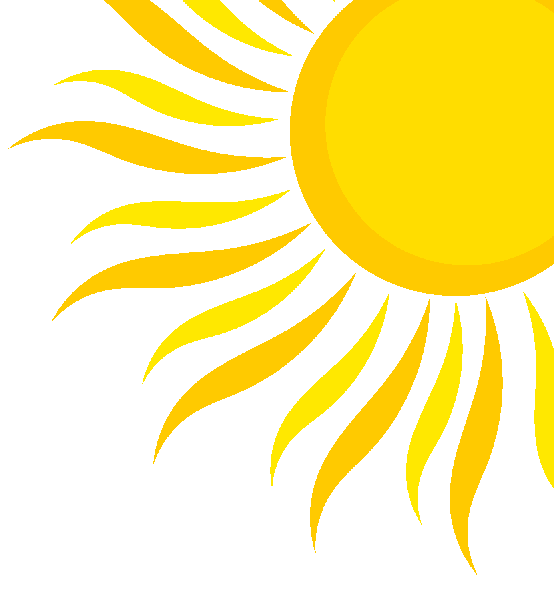
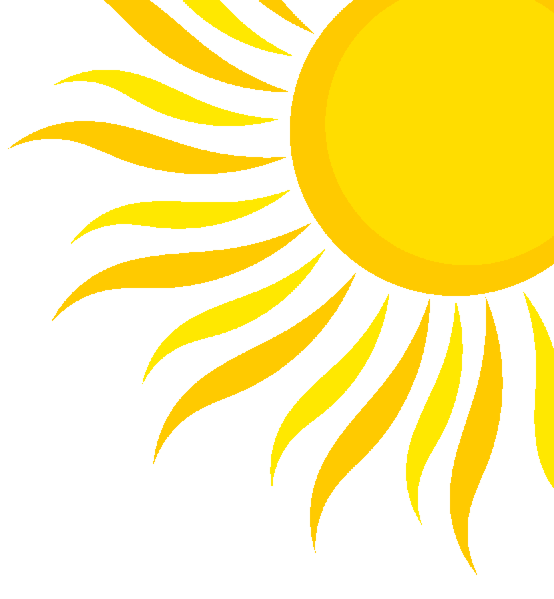
blur sun and use better image resolution

diff --git a/index.html b/index.html
@@ -95,7 +95,7 @@
 
 
     <section class="white black-bg panel relative">
-      <img class="top-right-corner" src="./images/half-sun-small.png" alt="sunshine">
+      <img style="height: 300px" class="top-right-corner" src="./images/half-sun-medium.png" alt="sunshine">
       <div class="container">
         <div class="inner sunshine">
           <div class="row">
